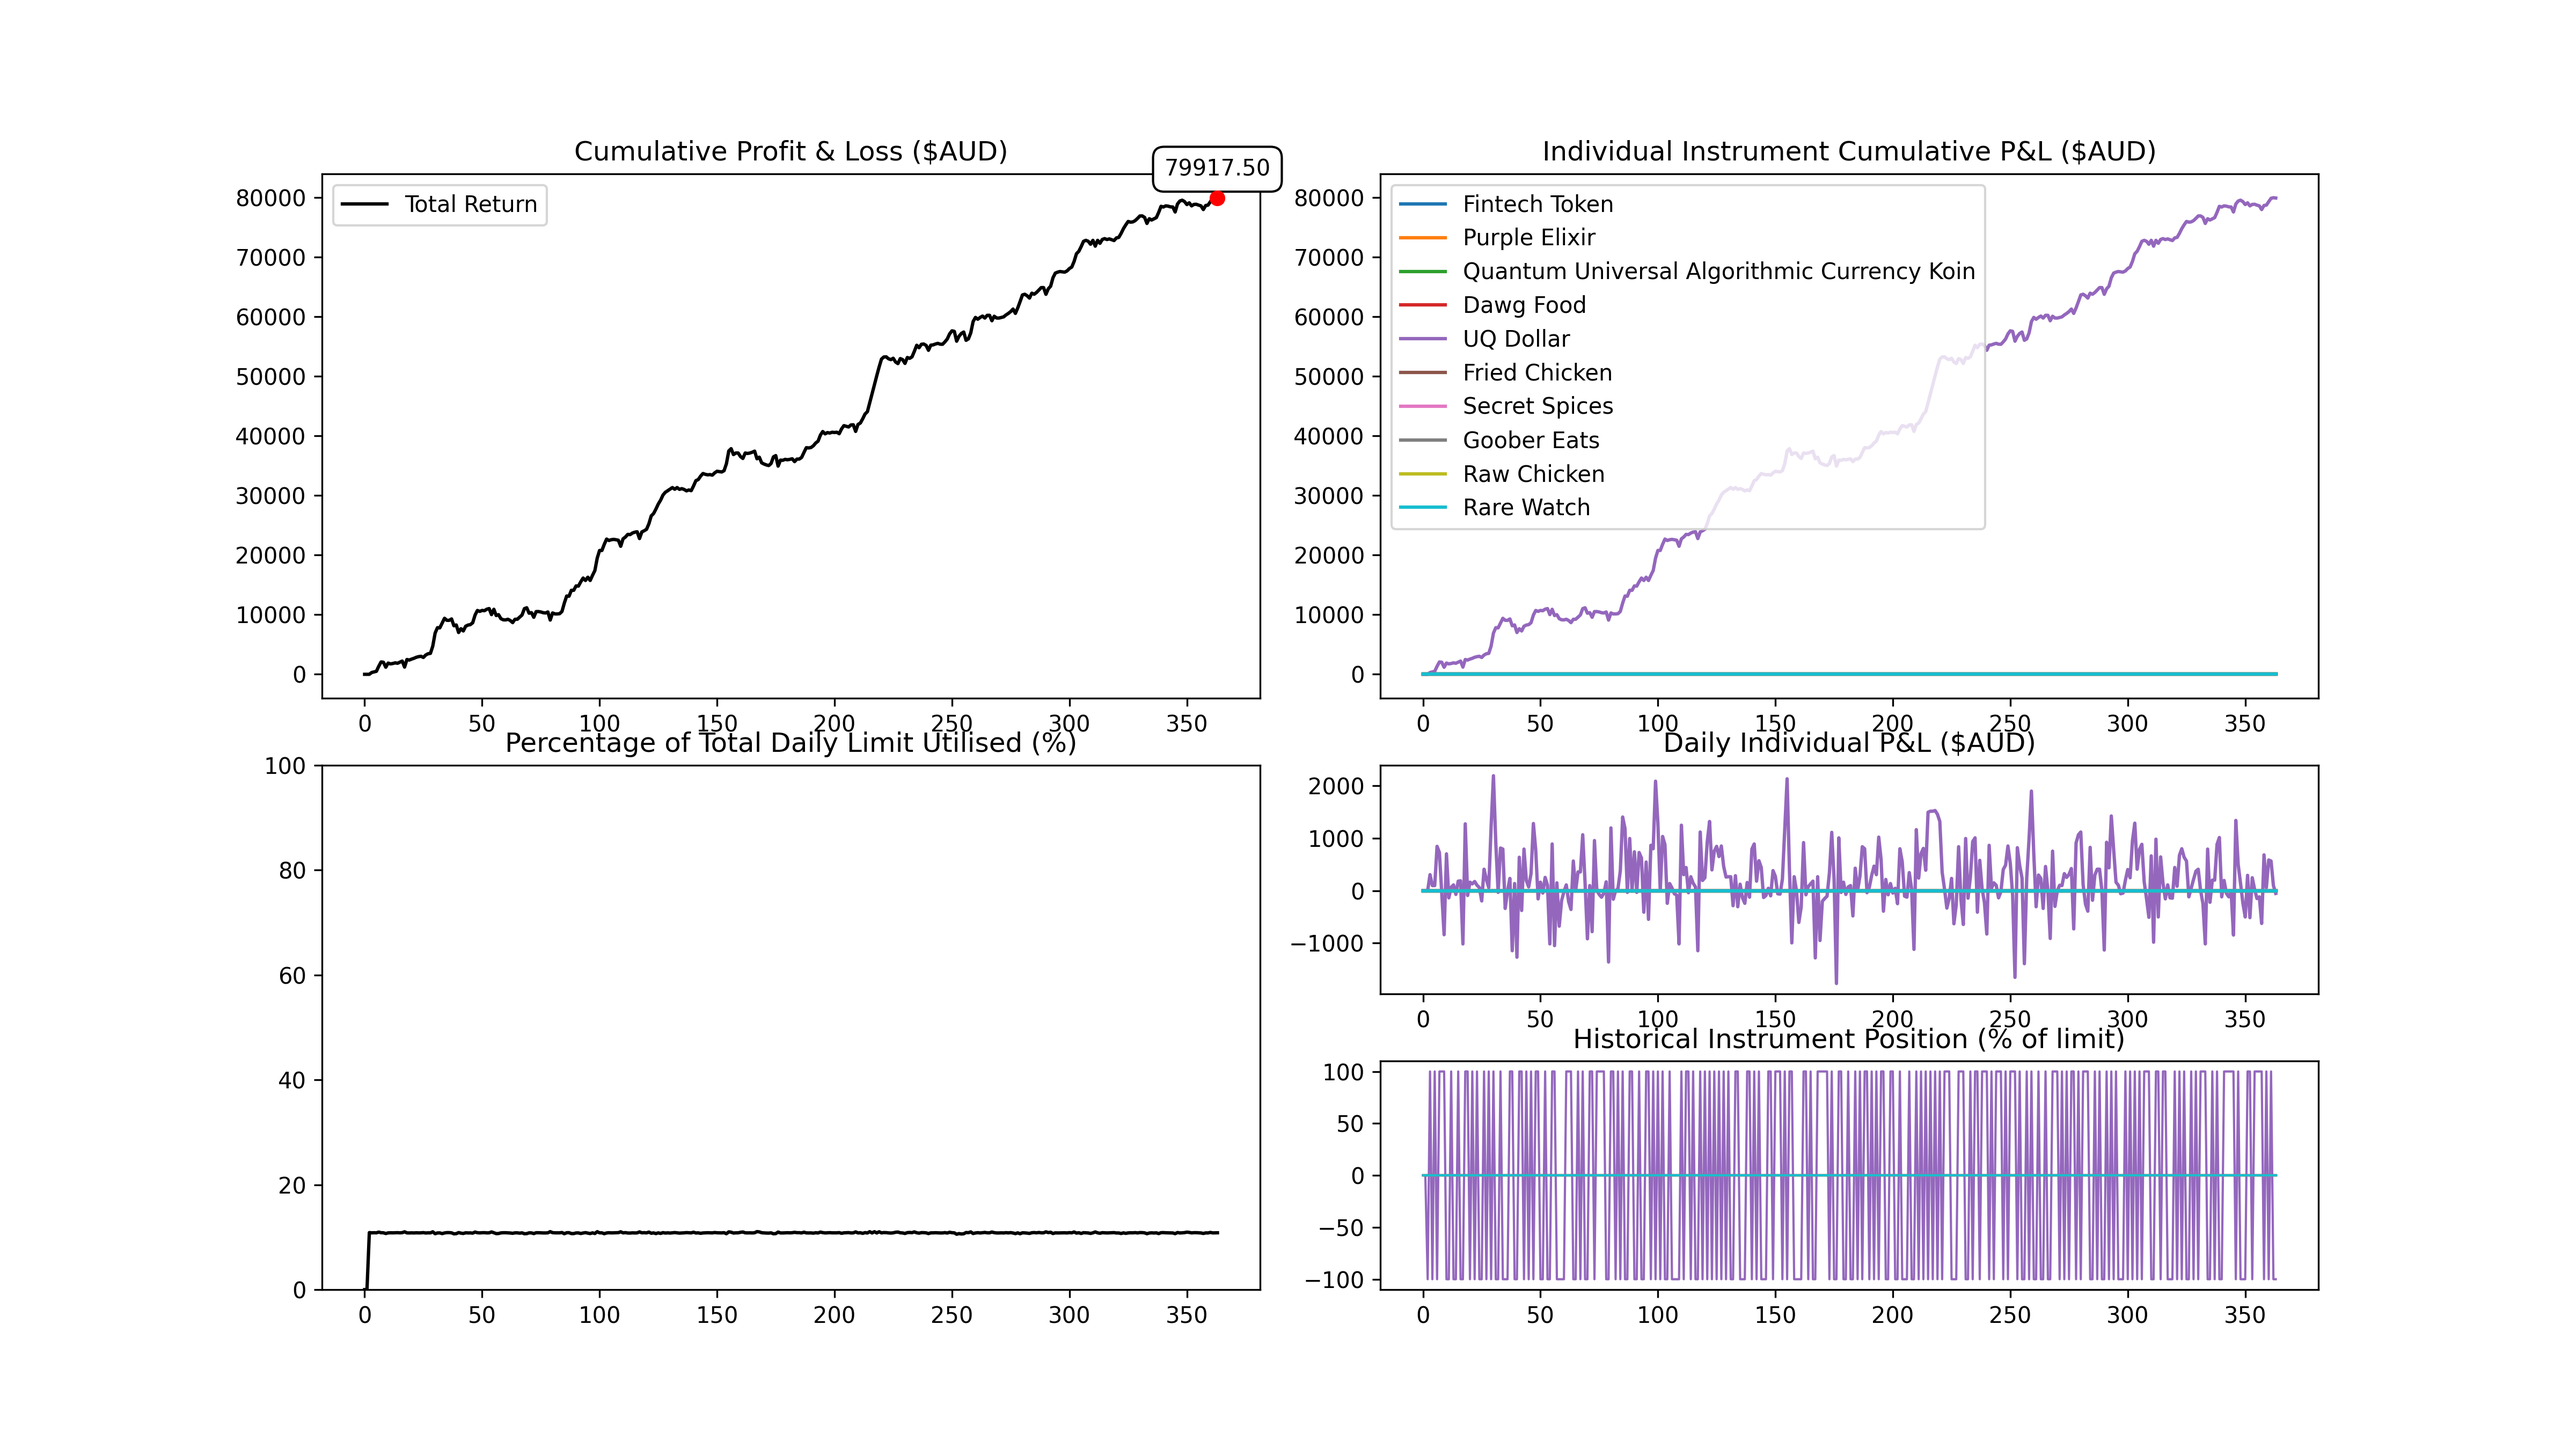
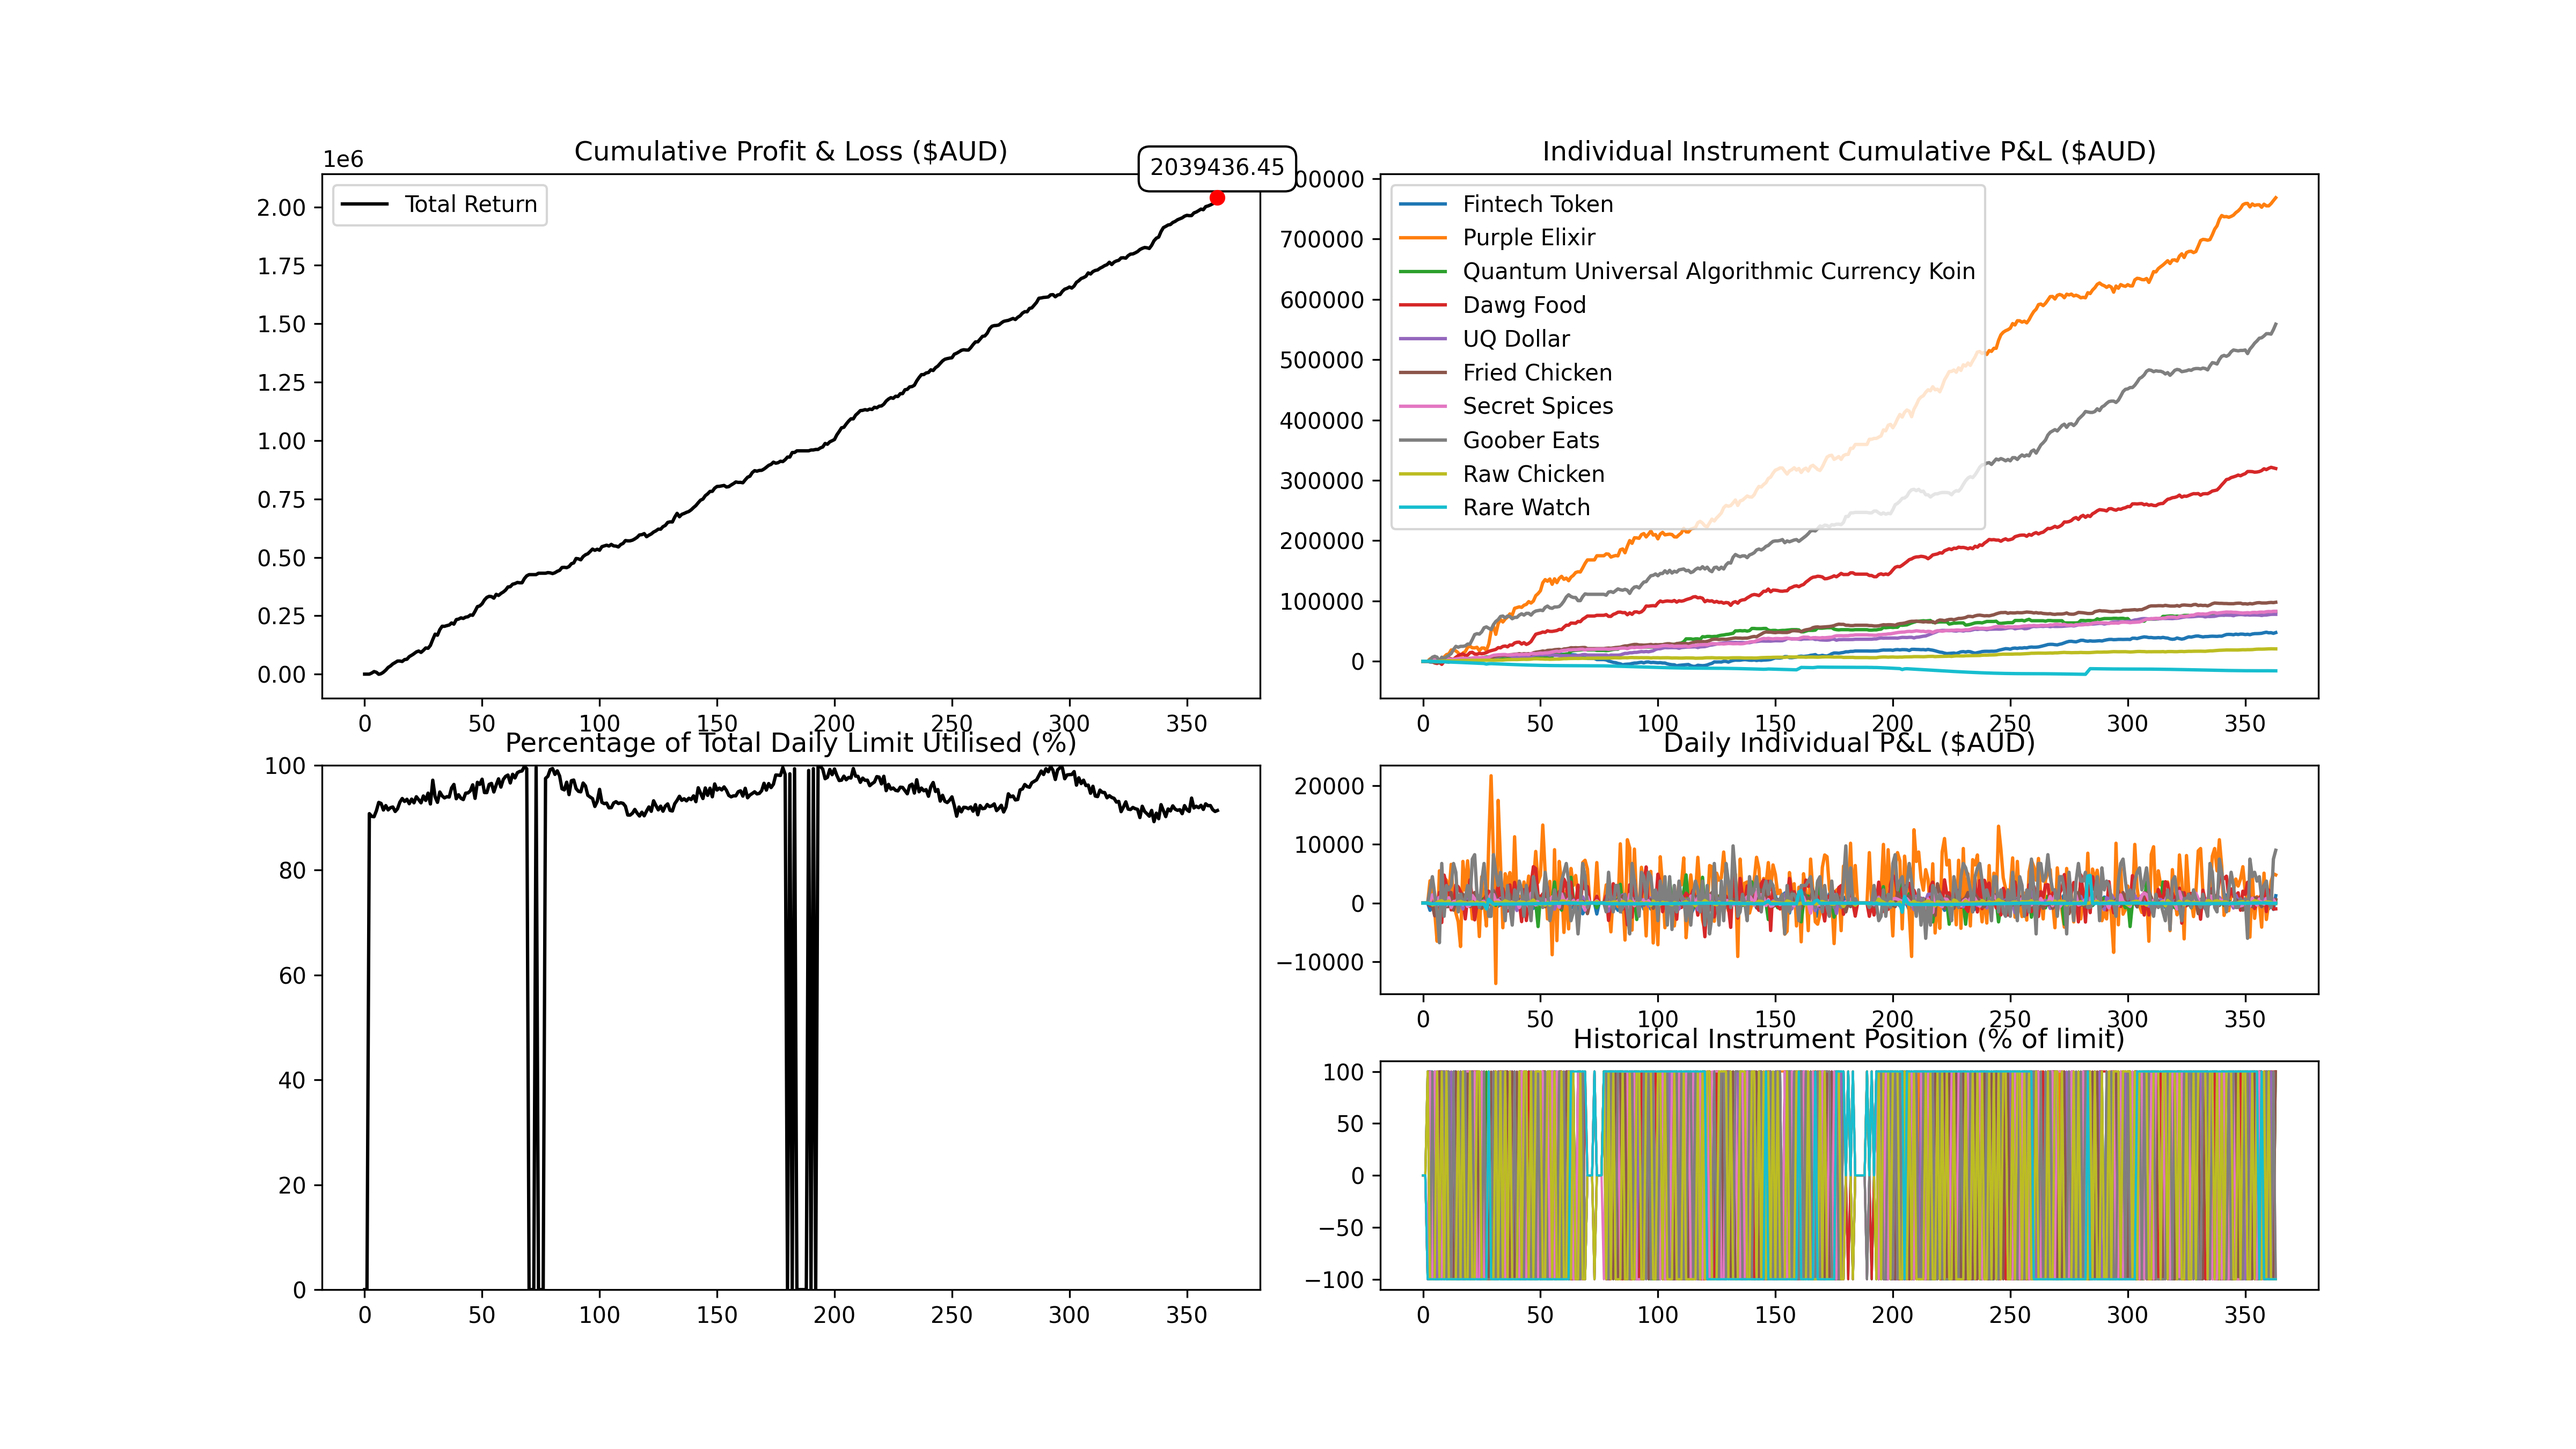
modularised asset functions

diff --git a/trader_interface/algorithm.py b/trader_interface/algorithm.py
@@ -23,6 +23,86 @@ class Algorithm():
         return self.data[instrument][-1]
     ########################################################
 
+    def get_uq_dollar_positions(self) -> int:
+        instrument_name: str = "UQ Dollar"
+
+        if self.data[instrument_name][-2] > self.data[instrument_name][-1]:
+            return self.positionLimits[instrument_name]
+        else:
+            return -self.positionLimits[instrument_name]
+
+    def get_dawg_food_positions(self) -> int:
+        instrument_name: str = "Dawg Food"
+
+        if self.data[instrument_name][-2] > self.data[instrument_name][-1]:
+            return self.positionLimits[instrument_name]
+        else:
+            return -self.positionLimits[instrument_name]
+
+    def get_fintech_token_positions(self) -> int:
+        instrument_name: str = "Fintech Token"
+
+        if self.data[instrument_name][-2] > self.data[instrument_name][-1]:
+            return self.positionLimits[instrument_name]
+        else:
+            return -self.positionLimits[instrument_name]
+
+    def get_fried_chicken_positions(self) -> int:
+        instrument_name: str = "Fried Chicken"
+
+        if self.data[instrument_name][-2] > self.data[instrument_name][-1]:
+            return self.positionLimits[instrument_name]
+        else:
+            return -self.positionLimits[instrument_name]
+
+    def get_raw_chicken_positions(self) -> int:
+        instrument_name: str = "Raw Chicken"
+
+        if self.data[instrument_name][-2] > self.data[instrument_name][-1]:
+            return self.positionLimits[instrument_name]
+        else:
+            return -self.positionLimits[instrument_name]
+
+    def get_secret_spices_positions(self) -> int:
+        instrument_name: str = "Secret Spices"
+
+        if self.data[instrument_name][-2] > self.data[instrument_name][-1]:
+            return self.positionLimits[instrument_name]
+        else:
+            return -self.positionLimits[instrument_name]
+
+    def get_goober_eats_positions(self) -> int:
+        instrument_name: str = "Goober Eats"
+        
+        if self.data[instrument_name][-2] > self.data[instrument_name][-1]:
+            return self.positionLimits[instrument_name]
+        else:
+            return -self.positionLimits[instrument_name]
+
+    def get_quack_positions(self) -> int:
+        instrument_name: str = "Quantum Universal Algorithmic Currency Koin"
+
+        if self.data[instrument_name][-2] > self.data[instrument_name][-1]:
+            return self.positionLimits[instrument_name]
+        else:
+            return -self.positionLimits[instrument_name]
+
+    def get_purple_elixir_positions(self) -> int:
+        instrument_name: str = "Purple Elixir"
+
+        if self.data[instrument_name][-2] > self.data[instrument_name][-1]:
+            return self.positionLimits[instrument_name]
+        else:
+            return -self.positionLimits[instrument_name]
+
+    def get_rare_watch_positions(self) -> int:
+        instrument_name: str = "Rare Watch"
+
+        if self.data[instrument_name][-2] > self.data[instrument_name][-1]:
+            return self.positionLimits[instrument_name]
+        else:
+            return -self.positionLimits[instrument_name]
+
     # RETURN DESIRED POSITIONS IN DICT FORM
     def get_positions(self):
         # Get current position
@@ -51,6 +131,17 @@ class Algorithm():
         
         # Start trading from Day 2 onwards. Buy if it goes down, sell if it goes up.
         if self.day >= 2:
+            desiredPositions["UQ Dollar"] = self.get_uq_dollar_positions()
+            desiredPositions["Dawg Food"] = self.get_dawg_food_positions()
+            desiredPositions["Fintech Token"] = self.get_fintech_token_positions()
+            desiredPositions["Fried Chicken"] = self.get_fried_chicken_positions()
+            desiredPositions["Raw Chicken"] = self.get_raw_chicken_positions()
+            desiredPositions["Secret Spices"] = self.get_secret_spices_positions()
+            desiredPositions["Goober Eats"] = self.get_goober_eats_positions()
+            desiredPositions["Quantum Universal Algorithmic Currency Koin"] = self.get_quack_positions()
+            desiredPositions["Purple Elixir"] = self.get_purple_elixir_positions()
+            desiredPositions["Rare Watch"] = self.get_rare_watch_positions()
+
             for ins in trade_instruments:
                 # if price has gone down buy
                 if self.data[ins][-2] > self.data[ins][-1]:
